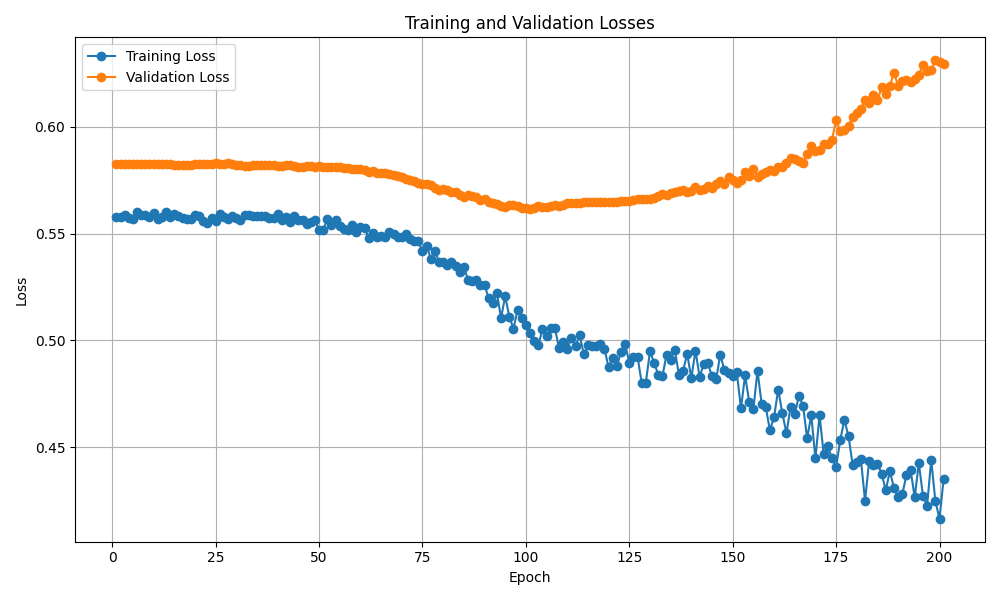
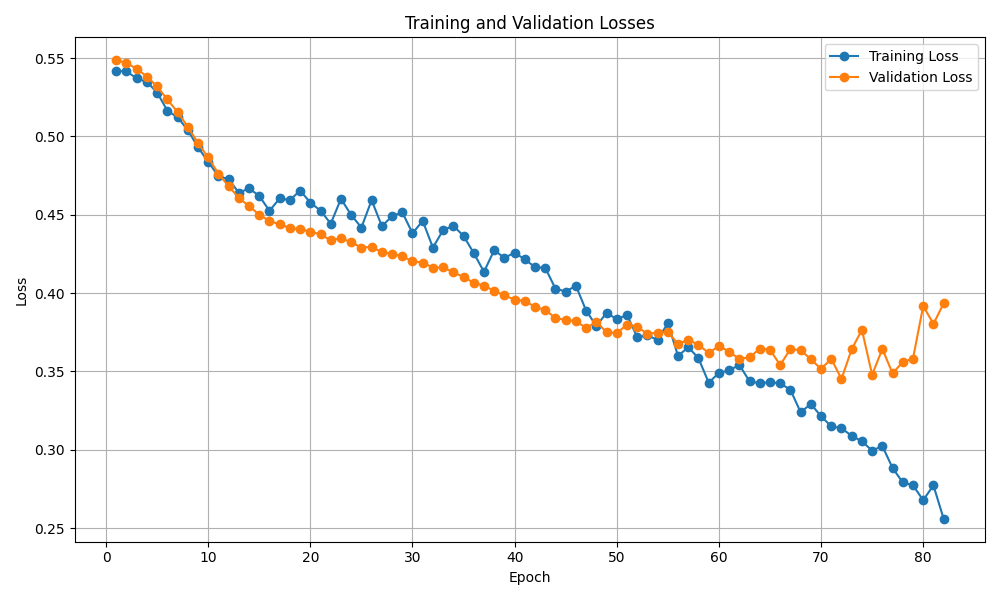
Minor changes, better results with more data

diff --git a/src/main.py b/src/main.py
@@ -14,6 +14,7 @@ from sklearn.metrics import accuracy_score, precision_score, recall_score, f1_sc
 from sklearn.model_selection import train_test_split
 from torch.optim.lr_scheduler import CyclicLR
 import matplotlib.pyplot as plt
+from collections import Counter
 import networkx as nx
 import os
 
@@ -65,6 +66,7 @@ transforms = Compose([
 filters = Compose([MinNumberNodes(), MinSparsityAndConnectivity()])
 
 aif_dataset = AIFDataset(root="../data", pre_transform=transforms, pre_filter=filters)
+
 for i in range(4):
     visualize_graph(aif_dataset[i], f"../results/plots/graphs")
 
@@ -74,9 +76,9 @@ test_size = len(aif_dataset) - train_size - val_size
 
 train_dataset, val_dataset, test_dataset = random_split(aif_dataset, [train_size, val_size, test_size])
 
-train_loader = DataLoader(train_dataset, batch_size=4, shuffle=True)
-valid_loader = DataLoader(val_dataset, batch_size=4, shuffle=False)
-test_loader = DataLoader(test_dataset, batch_size=4, shuffle=False)
+train_loader = DataLoader(train_dataset, batch_size=2, shuffle=True)
+valid_loader = DataLoader(val_dataset, batch_size=2, shuffle=False)
+test_loader = DataLoader(test_dataset, batch_size=2, shuffle=False)
 
 class_distribution = Counter([label for data in train_dataset for label in data.y.numpy()])
 total_samples = sum(class_distribution.values())
@@ -95,7 +97,7 @@ criterion = nn.CrossEntropyLoss(weight=weights)
 clr_scheduler = CyclicLR(optimizer, base_lr=min_lr, max_lr=max_lr, step_size_up=step_size_up, mode='triangular'
 )
 
-patience = 100
+patience = 10
 early_stop_counter = 0
 best_valid_loss = float('inf')
 
@@ -143,7 +145,7 @@ for epoch in range(epochs):
 
     if average_valid_loss < best_valid_loss:
         best_valid_loss = average_valid_loss
-        early_stop_counter = 0  # Reset the counter if there's improvement
+        early_stop_counter = 0
     else:
         early_stop_counter += 1
 

diff --git a/src/importer/importer.py b/src/importer/importer.py
@@ -98,16 +98,15 @@ class AIFDataset(InMemoryDataset):
         for i, component in enumerate(connected_components):
             subgraph = nx.Graph(aif_data.graph.subgraph(component))
             subgraph_name = f'{file_name}_component_{string.ascii_lowercase[i]}'
-            component_data = AIFData(graph=subgraph, name=subgraph_name, num_nodes=subgraph.number_of_nodes())
-
-            # Apply transformations
-            component_data = self.edge_label_encoder(component_data)
-            component_data = self.graph_to_pyg(component_data)
+            component_data = AIFData(graph=subgraph, name=subgraph_name, num_nodes=subgraph.number_of_nodes())    
 
             # Filter components
             if self.pre_filter is not None and not self.pre_filter(component_data):
                 thread_utils.thread_safe_print(f"Pre-filter rejected data in sub-graph {component_data.name}. Skipping this file.")
                 continue
+
+            component_data = self.edge_label_encoder(component_data)
+            component_data = self.graph_to_pyg(component_data)
             
             subgraph_data.append(component_data)
 
@@ -142,6 +141,9 @@ class AIFDataset(InMemoryDataset):
             data.edge_index = edge_index
             data.y = data.edge_labels
             data.x = node_features
+
+            assert data.x is not None, f"WARNING: data.x is None for {data.name}"
+            assert data.y is not None, f"WARNING: data.y is None for {data.name}"
 
             thread_utils.thread_safe_print(f'Converted graph data to PyG data for {data.name}')
         

diff --git a/src/embeddings/bert_generic.py b/src/embeddings/bert_generic.py
@@ -2,7 +2,7 @@ import torch
 from transformers import AutoTokenizer, AutoModel
 
 class BERTEmbedding:
-    def __init__(self, model_name='ali2066/distilbert-base-uncased-finetuned-sst-2-english-finetuned-argumentative'):
+    def __init__(self, model_name='bhadresh-savani/distilbert-base-uncased-sentiment-sst2'):
         self.tokenizer = AutoTokenizer.from_pretrained(model_name)
         self.model = AutoModel.from_pretrained(model_name, output_hidden_states=True)
 

diff --git a/results/README.md b/results/README.md
@@ -1,0 +1,5 @@
+# Initial model results
+
+Early stopping after 82 epochs. No improvement in validation loss.
+Test Accuracy: 83.33%, Precision: 0.9011, Recall: 0.8333, F1 Score: 0.8615
+Total execution time: 231.91 seconds
